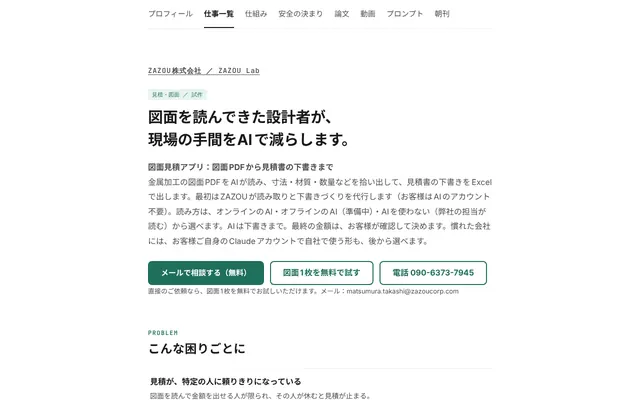
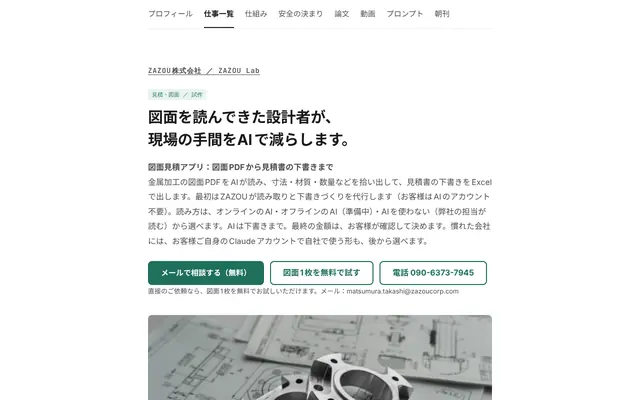
【確認用】外したイメージ写真3枚を元に戻す準備（先輩5のOK待ち。松村さん指定の1枚は確定後に外す）
- プロフィール（机とノートパソコン）、仕事一覧（電卓とグラフ）、図面見積（図面と金属部品）とフッターの出典表記
- 出典一覧（credits）にも戻し、図面見積のサムネイルを撮り直し
- 前後の比較画像 docs/_review-photos/

Claude-Session: https://claude.ai/code/session_01FoXnQUfRrmqzodteHHALDD

Changed region(s): [[0.2188, 0.78, 0.7812, 1.0]]

diff --git a/index.html b/index.html
@@ -75,6 +75,7 @@
 </nav>
 
 <section id="about" data-panel="about">
+<figure class="photo-slot"><img src="assets/img/photo/profile.webp" width="1400" height="1050" alt="ノートとパソコンが置かれた机" loading="lazy" decoding="async"><figcaption>イメージ写真（実際の仕事場の写真に差し替える予定）</figcaption></figure>
 <div class="sub-sec cols" id="skills">
   <h2><span class="en">Skills</span>できること</h2>
   <p class="note">仕事一覧と同じ分け方で並べています。「仕事の例」から、それぞれの見本に移れます。</p>
@@ -108,6 +109,7 @@
 
 <section id="samples" data-panel="samples" class="cols">
   <h2><span class="en">Samples</span>仕事一覧</h2>
+  <figure class="photo-slot"><img src="assets/img/photo/works.webp" width="1400" height="933" alt="電卓とグラフの紙、鉛筆が置かれた机" loading="lazy" decoding="async"><figcaption>イメージ写真</figcaption></figure>
   <p class="lead note">見本では、会社名・人名・数字を変更しています。</p>
   <p class="group" id="g-estimate">見積・図面</p>
   <ul class="rows">
@@ -364,7 +366,7 @@
 <footer class="site-foot">
   <div class="sf-co"><b>ZAZOU株式会社</b><span>ZAZOU Lab ／ 滋賀県日野町</span></div>
   <div class="sf-ct"><span>ご相談・お問い合わせ（無料）</span><a href="mailto:matsumura.takashi@zazoucorp.com">matsumura.takashi@zazoucorp.com</a><a href="tel:090-6373-7945">090-6373-7945</a><a class="sf-cw" href="https://crowdworks.jp/public/employees/3288043">クラウドワークスからのご相談も受け付けています</a></div>
-  <p class="sf-small"><span class="mono">© 2026 ZAZOU株式会社</span></p>
+  <p class="sf-small"><span class="note">イメージ写真：Unsplash（<a href="samples/sites/credits.md">出典一覧</a>）</span><br><span class="mono">© 2026 ZAZOU株式会社</span></p>
 </footer>
 
 </div>

diff --git a/samples/drawing-estimate/index.html b/samples/drawing-estimate/index.html
@@ -54,6 +54,7 @@ dl.qa dd{margin:2px 0 0;color:var(--sub);font-size:15px}
 <div class="cta-row"><a class="cta main" href="mailto:matsumura.takashi@zazoucorp.com?subject=%E3%81%94%E7%9B%B8%E8%AB%87%EF%BC%88ZAZOU%20Lab%EF%BC%89">メールで相談する（無料）</a><a class="cta sub" href="mailto:matsumura.takashi@zazoucorp.com?subject=%E5%9B%B3%E9%9D%A21%E6%9E%9A%E3%81%AE%E7%84%A1%E6%96%99%E3%81%8A%E8%A9%A6%E3%81%97">図面1枚を無料で試す</a><a class="cta sub" href="tel:09063737945">電話 090-6373-7945</a></div>
 <p class="cta-note">直接のご依頼なら、図面1枚を無料でお試しいただけます。メール：matsumura.takashi@zazoucorp.com</p>
 </header>
+<figure class="photo-slot"><img src="../../assets/img/photo/drawing.webp" width="1400" height="788" alt="図面の上に置かれた2つの金属部品" loading="lazy" decoding="async"><figcaption>イメージ写真（実際の図面とは関係ありません）</figcaption></figure>
 
 <section>
 <h2><span class="en">Problem</span>こんな困りごとに</h2>
@@ -139,6 +140,6 @@ dl.qa dd{margin:2px 0 0;color:var(--sub);font-size:15px}
 <footer class="site-foot">
   <div class="sf-co"><b>ZAZOU株式会社</b><span>ZAZOU Lab ／ 滋賀県日野町</span></div>
   <div class="sf-ct"><span>ご相談・お問い合わせ（無料）</span><a href="mailto:matsumura.takashi@zazoucorp.com">matsumura.takashi@zazoucorp.com</a><a href="tel:090-6373-7945">090-6373-7945</a><a class="sf-cw" href="https://crowdworks.jp/public/employees/3288043">クラウドワークスからのご相談も受け付けています</a></div>
-  <p class="sf-small"><span class="mono">© 2026 ZAZOU株式会社</span></p>
+  <p class="sf-small"><span class="note">イメージ写真：Unsplash（<a href="../sites/credits.md">出典一覧</a>）</span><br><span class="mono">© 2026 ZAZOU株式会社</span></p>
 </footer>
 </div></body></html>

diff --git a/samples/sites/credits.md b/samples/sites/credits.md
@@ -1,11 +1,14 @@
 # 写真の出典（ZAZOU Lab）
 
-見本サイト（samples/sites/）に使った写真の一覧です。
+見本サイト（samples/sites/）とトップの「イメージ写真」に使った写真の一覧です。
 すべて [Unsplash License](https://unsplash.com/license)（無料・商用利用可・クレジット表記は不要）の写真で、写真ページで Unsplash+（有料）でないことを確認して取り込みました。
 見本サイトの写真はイメージで、実在の店舗・人物とは関係ありません。ロゴや商品名が読める部分は、ぼかしを入れています。
 
 | サイト | ファイル | 用途 | 撮影者 | 写真ページ |
 |---|---|---|---|---|
+| portfolio | assets/img/photo/drawing.webp | 図面見積の紹介（イメージ写真の仮置き） | EnCata PD | https://unsplash.com/photos/two-metal-mechanical-parts-on-engineering-blueprints-SRqJ3eli-4I |
+| portfolio | assets/img/photo/profile.webp | トップ・プロフィール（イメージ写真の仮置き） | Nick Morrison | https://unsplash.com/photos/macbook-pro-near-white-open-book-FHnnjk1Yj7Y |
+| portfolio | assets/img/photo/works.webp | トップ・仕事一覧（イメージ写真の仮置き） | Cht Gsml | https://unsplash.com/photos/desk-with-calculator-charts-and-pencil-dspKrJYp644 |
 | architect | samples/sites/architect/img/drawings.webp | トップ本文（図面） | Jonathan Borba | https://unsplash.com/photos/rn00OVh0gEI |
 | architect | samples/sites/architect/img/hero-model.webp | トップのヒーロー（白い建築模型） | Fernando Andrade | https://unsplash.com/photos/a-model-of-a-house-sitting-on-top-of-a-book-UW4_FYJ_jRc |
 | architect | samples/sites/architect/img/model-wood.webp | トップ本文（木の模型） | Zhouxing Lu | https://unsplash.com/photos/Mb32AJpqd-g |
